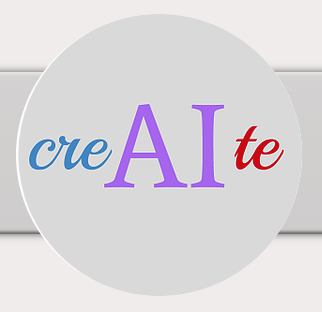
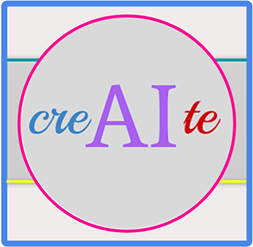
partners!

Changed region(s): [[0.0, 0.0, 1.0, 1.0], [0.7194, 0.3968, 0.8854, 0.5668]]

diff --git a/index.html b/index.html
@@ -397,6 +397,15 @@
                 <a class="sponsor" href="https://linghacks.tech/" target="_blank">
                   <img alt="Linghacks" src="assets/images/partnered/linghacks.png">
                 </a>
+                <a class="sponsor" href="https://www.hackthefog.com/" target="_blank">
+                  <img alt="Hack the Fog" src="assets/images/partnered/hackthefog.png">
+                </a>
+                <a class="sponsor" href="http://pixelhacks.com/" target="_blank">
+                  <img alt="PixelHacks" src="assets/images/partnered/pixelhacks.png">
+                </a>
+                <a class="sponsor" href="https://losaltoshacks.com/" target="_blank">
+                  <img alt="Los Altos Hacks" src="assets/images/partnered/lah.png">
+                </a>
                 <a class="sponsor" href="https://stemgirlblog.wordpress.com" target="_blank">
                   <img alt="StemGirl" src="assets/images/partnered/stemgirl.png">
                 </a>
@@ -410,7 +419,13 @@
                   <img alt="Bits N' Bytes Cybersecurity Education" src="assets/images/partnered/bitnbytes.png">
                 </a>
                 <a class="sponsor" href="http://thecodematrix.org/" target="_blank">
-                  <img alt="The Code Matrix" src="assets/images/partnered/theCodeMatrix.png">
+                  <img alt="The Code Matrix" src="assets/images/partnered/thecodematrix.png">
+                </a>
+                <a class="sponsor" href="https://aiandart.wixsite.com/creaite" target="_blank">
+                  <img alt="creAIte" src="assets/images/partnered/creAIte.png">
+                </a>
+                <a class="sponsor" href="https://empowhergirls.wixsite.com/empowher" target="_blank">
+                  <img alt="Empower Her" src="assets/images/partnered/empowerher.png">
                 </a>
             </div>
         </div>
